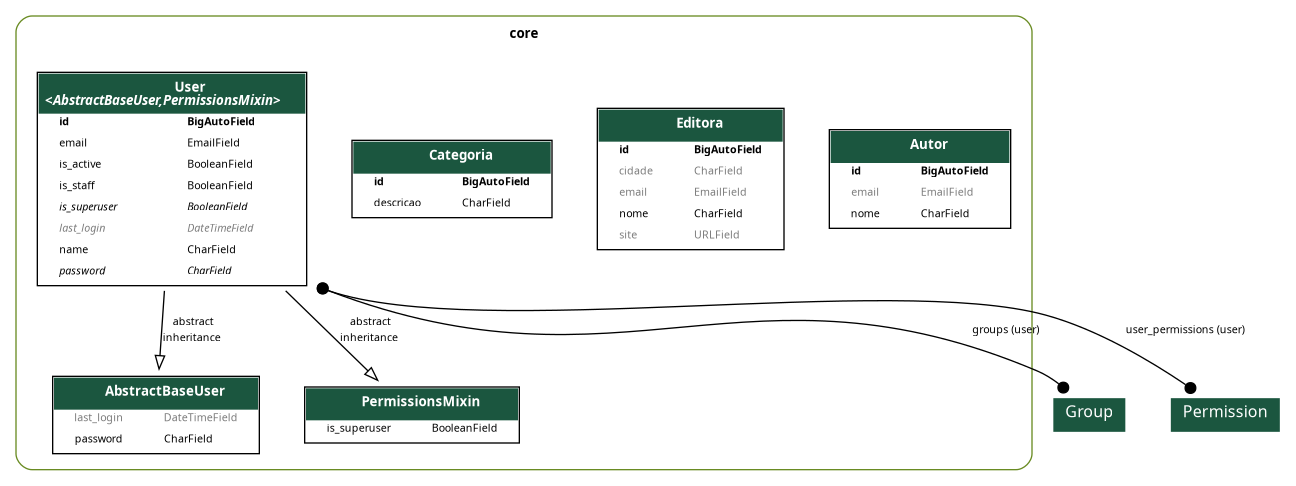
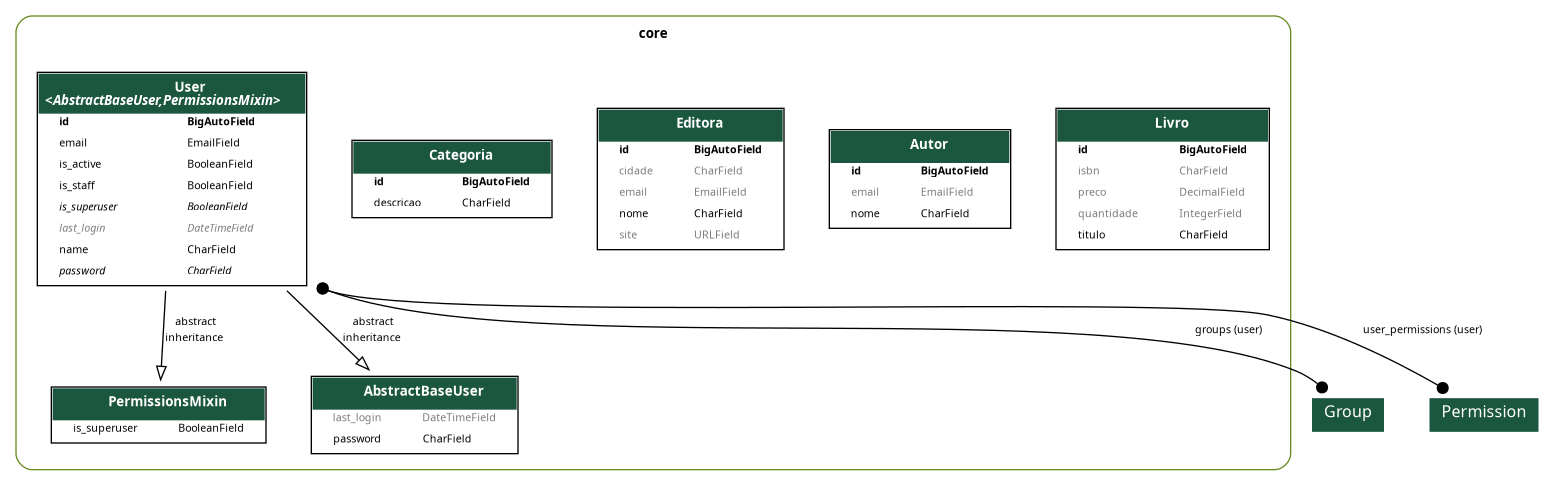
Criação da API para Livro

diff --git a/core/migrations/0007_livro.py b/core/migrations/0007_livro.py
@@ -1,0 +1,23 @@
+# Generated by Django 5.0.4 on 2024-04-15 13:03
+
+from django.db import migrations, models
+
+
+class Migration(migrations.Migration):
+
+    dependencies = [
+        ("core", "0006_autor"),
+    ]
+
+    operations = [
+        migrations.CreateModel(
+            name="Livro",
+            fields=[
+                ("id", models.BigAutoField(auto_created=True, primary_key=True, serialize=False, verbose_name="ID")),
+                ("titulo", models.CharField(max_length=255)),
+                ("isbn", models.CharField(blank=True, max_length=32, null=True)),
+                ("quantidade", models.IntegerField(blank=True, default=0, null=True)),
+                ("preco", models.DecimalField(blank=True, decimal_places=2, default=0, max_digits=10, null=True)),
+            ],
+        ),
+    ]

diff --git a/app/urls.py b/app/urls.py
@@ -9,12 +9,19 @@ from drf_spectacular.views import (
 from rest_framework.routers import DefaultRouter
 from rest_framework_simplejwt.views import TokenObtainPairView, TokenRefreshView
 
-from core.views import AutorViewSet, CategoriaViewSet, EditoraViewSet, UserViewSet
+from core.views import (
+    AutorViewSet,
+    CategoriaViewSet,
+    EditoraViewSet,
+    LivroViewSet,
+    UserViewSet,
+)
 
 router = DefaultRouter()
 router.register(r"autores", AutorViewSet, basename="autores")
 router.register(r"categorias", CategoriaViewSet, basename="categorias")
 router.register(r"editoras", EditoraViewSet, basename="editoras")
+router.register(r"livros", LivroViewSet, basename="livros")
 router.register(r"usuarios", UserViewSet, basename="usuarios")
 
 urlpatterns = [

diff --git a/core/models/livro.py b/core/models/livro.py
@@ -1,0 +1,11 @@
+from django.db import models
+
+
+class Livro(models.Model):
+    titulo = models.CharField(max_length=255)
+    isbn = models.CharField(max_length=32, null=True, blank=True)
+    quantidade = models.IntegerField(default=0, null=True, blank=True)
+    preco = models.DecimalField(max_digits=10, decimal_places=2, default=0, null=True, blank=True)
+
+    def __str__(self):
+        return f"({self.id}) {self.titulo} ({self.quantidade})"

diff --git a/app/settings.py b/app/settings.py
@@ -73,8 +73,8 @@ WSGI_APPLICATION = "app.wsgi.application"
 
 # Databases
 DATABASES = {
-    'default': dj_database_url.config(
-        default='sqlite:///db.sqlite3',
+    "default": dj_database_url.config(
+        default="sqlite:///db.sqlite3",
         conn_max_age=600,
         conn_health_checks=True,
     )

diff --git a/core/views/livro.py b/core/views/livro.py
@@ -1,0 +1,9 @@
+from rest_framework.viewsets import ModelViewSet
+
+from core.models import Livro
+from core.serializers import LivroSerializer
+
+
+class LivroViewSet(ModelViewSet):
+    queryset = Livro.objects.all()
+    serializer_class = LivroSerializer

diff --git a/core/serializers/livro.py b/core/serializers/livro.py
@@ -1,0 +1,9 @@
+from rest_framework.serializers import ModelSerializer
+
+from core.models import Livro
+
+
+class LivroSerializer(ModelSerializer):
+    class Meta:
+        model = Livro
+        fields = "__all__"

diff --git a/core/admin.py b/core/admin.py
@@ -53,3 +53,4 @@ admin.site.register(models.User, UserAdmin)
 admin.site.register(models.Categoria)
 admin.site.register(models.Editora)
 admin.site.register(models.Autor)
+admin.site.register(models.Livro)

diff --git a/core/serializers/__init__.py b/core/serializers/__init__.py
@@ -2,3 +2,4 @@ from .user import UserSerializer
 from .categoria import CategoriaSerializer
 from .editora import EditoraSerializer
 from .autor import AutorSerializer
+from .livro import LivroSerializer

diff --git a/core/views/__init__.py b/core/views/__init__.py
@@ -2,3 +2,4 @@ from .user import UserViewSet
 from .categoria import CategoriaViewSet
 from .editora import EditoraViewSet
 from .autor import AutorViewSet
+from .livro import LivroViewSet

diff --git a/core/models/__init__.py b/core/models/__init__.py
@@ -2,3 +2,4 @@ from .user import User
 from .categoria import Categoria
 from .editora import Editora
 from .autor import Autor
+from .livro import Livro
